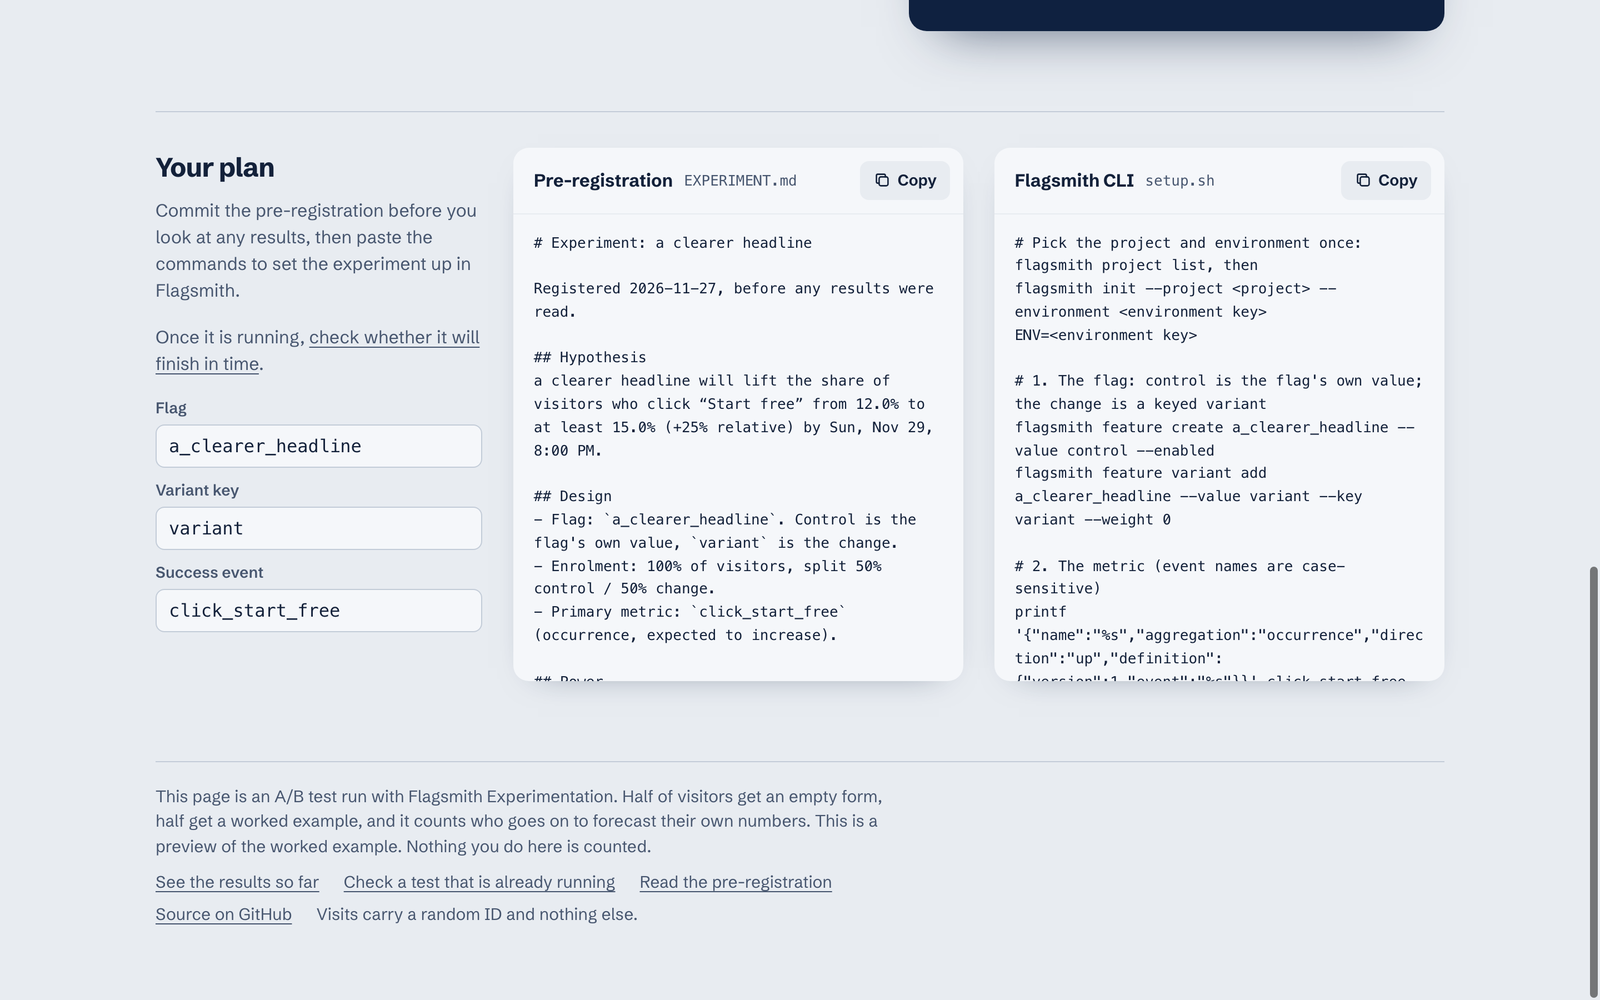
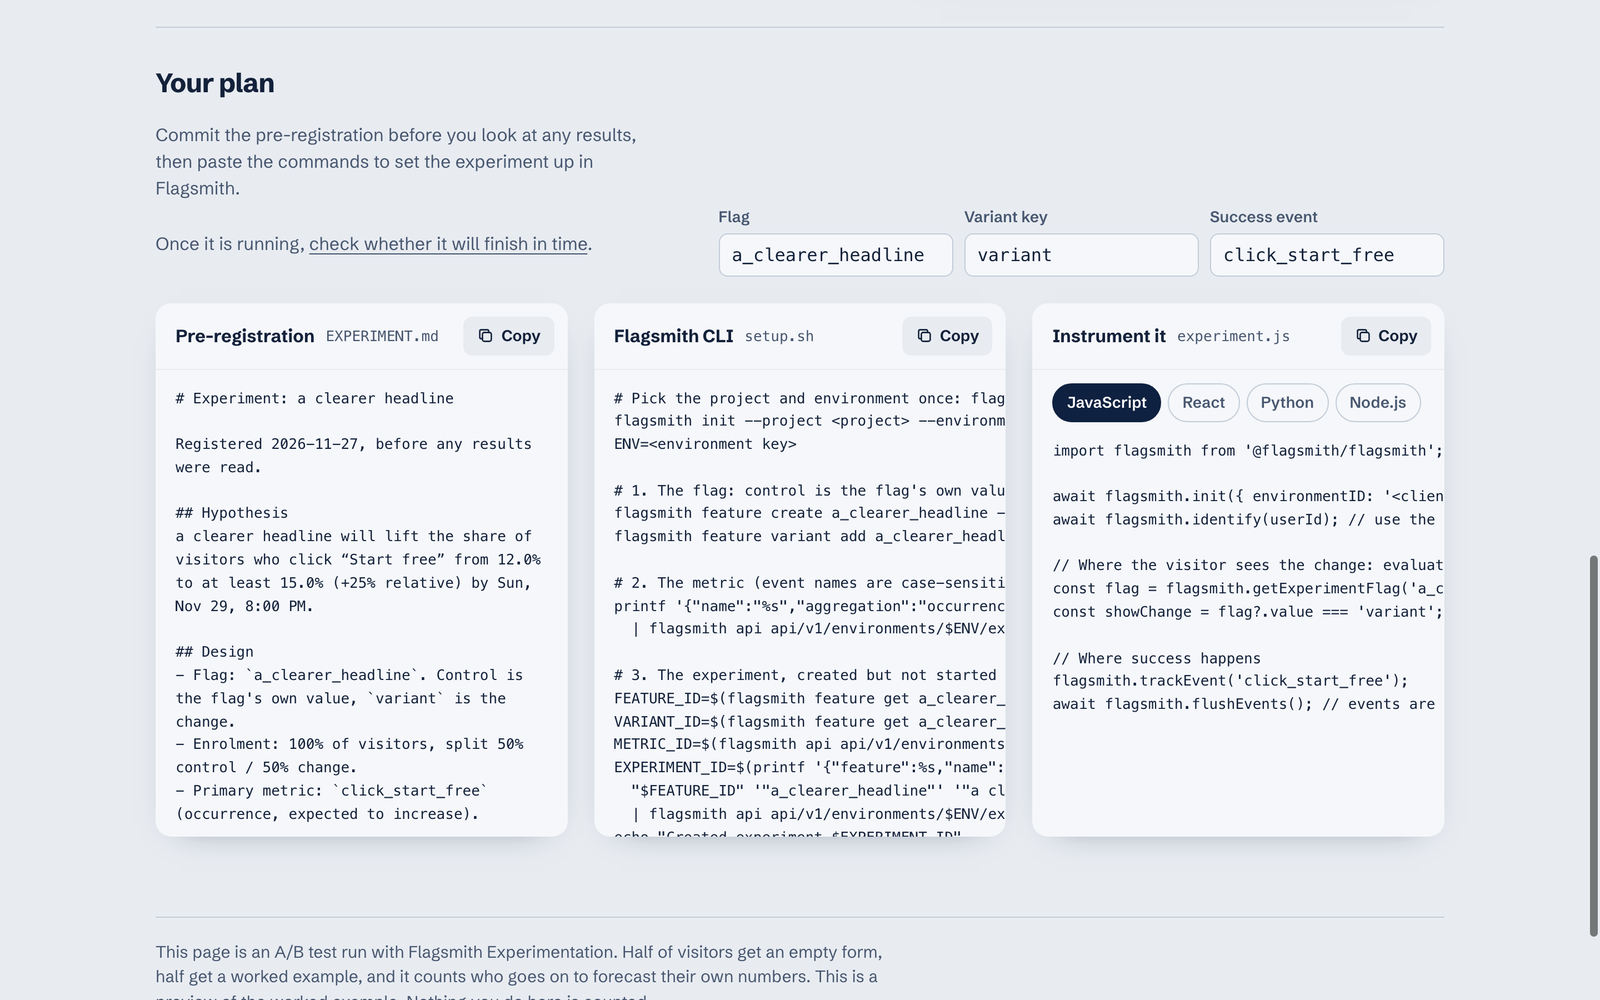
Calibration regression test in CI; refresh screenshots and demo script

diff --git a/src/calibration.test.ts b/src/calibration.test.ts
@@ -1,0 +1,49 @@
+import { describe, expect, it } from 'vitest';
+import { forecast } from './forecast';
+import { clearsFloor, inferLift } from './stats';
+
+// A smaller version of scripts/calibrate.mjs, so a regression in the forecast fails CI.
+describe('forecast calibration against Flagsmith’s rule', () => {
+  it('stays within 1.5 points on average across random plans', () => {
+    let state = 424242;
+    const rand = () => {
+      state = (state + 0x6d2b79f5) | 0;
+      let t = Math.imul(state ^ (state >>> 15), 1 | state);
+      t = (t + Math.imul(t ^ (t >>> 7), 61 | t)) ^ t;
+      return ((t ^ (t >>> 14)) >>> 0) / 4294967296;
+    };
+    const gauss = () => Math.sqrt(-2 * Math.log(rand() || 1e-12)) * Math.cos(2 * Math.PI * rand());
+    const binomial = (n: number, p: number) => {
+      if (n * p * (1 - p) > 9) return Math.min(n, Math.max(0, Math.round(n * p + Math.sqrt(n * p * (1 - p)) * gauss())));
+      let k = 0;
+      for (let i = 0; i < n; i++) if (rand() < p) k++;
+      return k;
+    };
+    const errors: number[] = [];
+    while (errors.length < 80) {
+      const input = {
+        baselineRate: Math.exp(Math.log(0.02) + rand() * Math.log(25)),
+        relativeLift: 0.05 + rand() * 0.55,
+        visitorsPerDay: Math.exp(Math.log(30) + rand() * Math.log(5000 / 30)),
+        days: 0.5 + rand() * 6.5,
+        rolloutShare: 1,
+        variantShare: 0.3 + rand() * 0.4,
+      };
+      if (input.baselineRate * (1 + input.relativeLift) >= 0.95) continue;
+      const f = forecast(input);
+      const n0 = Math.round(f.controlN);
+      const n1 = Math.round(f.variantN);
+      let wins = 0;
+      const runs = 600;
+      for (let r = 0; r < runs; r++) {
+        const control = { visitors: n0, conversions: binomial(n0, f.controlRate) };
+        const variant = { visitors: n1, conversions: binomial(n1, f.variantRate) };
+        if (clearsFloor(control, variant) && (inferLift(control, variant)?.chanceToWin ?? 0) >= 0.95) wins++;
+      }
+      errors.push(Math.abs(f.outcome.win - wins / runs));
+    }
+    const mae = errors.reduce((a, b) => a + b, 0) / errors.length;
+    expect(mae).toBeLessThan(0.015);
+    expect(Math.max(...errors)).toBeLessThan(0.07);
+  });
+});

diff --git a/docs/DEMO.md b/docs/DEMO.md
@@ -7,7 +7,7 @@ Keep the voiceover plain; the numbers on screen do the convincing.
 | Time | Picture | Voiceover |
 |---|---|---|
 | 0:00 | Verdict home, empty form **[rec: plan, first 2 s]** | "Toggle Wars gives you four days of data. Most A/B tests can't finish in four days, and you only find out on Sunday. Verdict tells you before you start." |
-| 0:12 | Typing the sentence, pressing Forecast, dots lighting up **[rec: plan]** | "You describe the test in one sentence: traffic, today's rate, the lift you expect, the deadline. Each dot is one way the test could play out. Here, 13 in 100 end with a winner by Sunday. Raise the expected lift and it changes." |
+| 0:12 | Typing the sentence, pressing Forecast, dots lighting up **[rec: plan]** | "You describe the test in one sentence: traffic, today's rate, the lift you expect, the deadline. Each dot is one way the test could play out. Here only a handful end with a winner by Sunday; raise the expected lift and watch it change." |
 | 0:32 | Scroll to Your plan, press Copy **[rec: plan, end]** | "You leave with a pre-registration and the Flagsmith CLI commands: flag, keyed variant, metric, experiment, start. I ran those commands against Flagsmith before shipping them." |
 | 0:45 | Side by side: `/?preview=control` and `/?preview=worked_example` **[rec: example]** | "Verdict runs a Flagsmith experiment on itself. One multivariate flag, first_screen: half of visitors get this empty form, half get a worked example." |
 | 0:58 | EXPERIMENT.md on GitHub, then `git log --format='%h %ci %s' -- EXPERIMENT.md` next to the experiment's started_at **[you]** | "Hypothesis: the example raises the share of visitors who forecast their own numbers by 25%. I committed that, the metrics and the decision rule before the experiment started." |

diff --git a/README.md b/README.md
@@ -142,7 +142,7 @@ Production client-side key is public by design; admin credentials stay in the CL
 
 | Check | Command | What it covers |
 |---|---|---|
-| Unit tests (54) | `pnpm test` | forecast maths vs Monte Carlo of Flagsmith's rule, Flagsmith fixtures, parsing, decision rule, interim check, CLI output run through bash with a stub that proves visitor text never executes |
+| Unit tests (55) | `pnpm test` | forecast maths vs Monte Carlo of Flagsmith's rule, a calibration regression check, Flagsmith fixtures, parsing, decision rule, interim check, CLI output run through bash with a stub that proves visitor text never executes |
 | End-to-end (9) | `pnpm build && pnpm e2e` | headless Chrome over both arms, 9 worst-case inputs at 1280 and 390 px (no NaN, no overflow, no script errors), `/lab`, `/check`, axe-core accessibility, and a check that preview mode never contacts Flagsmith |
 | CI | GitHub Actions | typecheck, unit tests, build and e2e on every push |
 | Live CLI | logged in [RUNLOG.md](RUNLOG.md) | the generated commands created a real flag, metric and experiment in a scratch environment, then were cleaned up |
